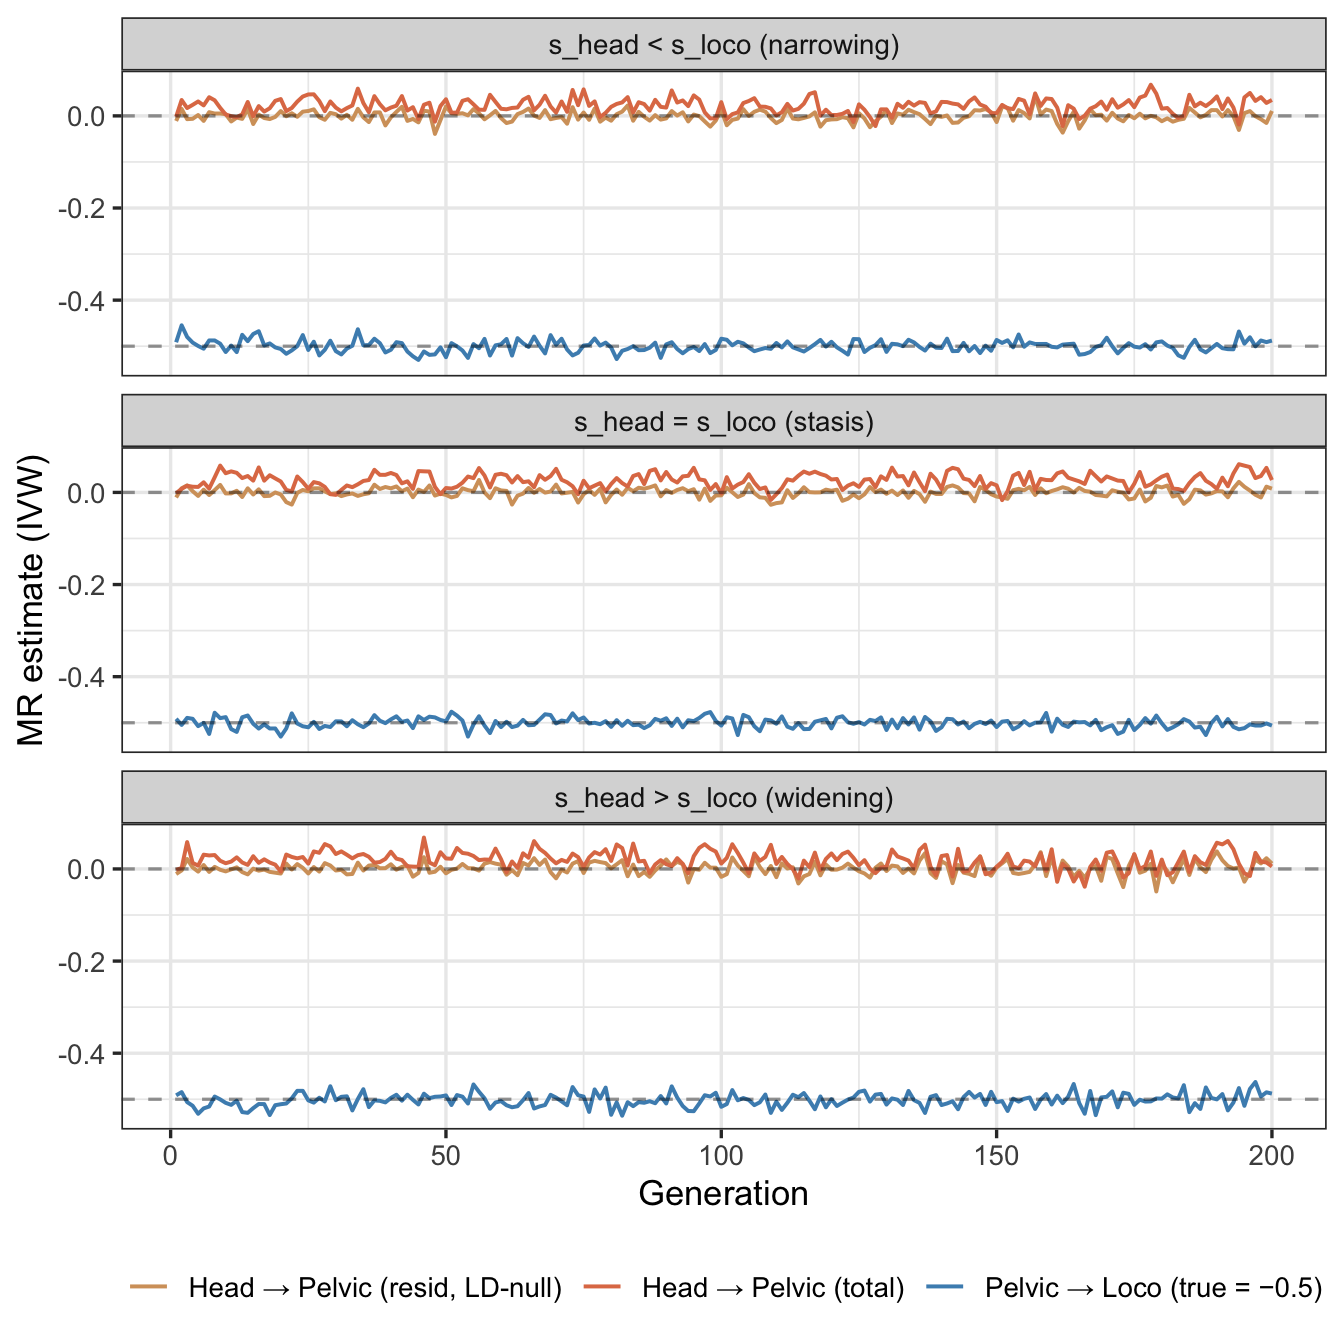
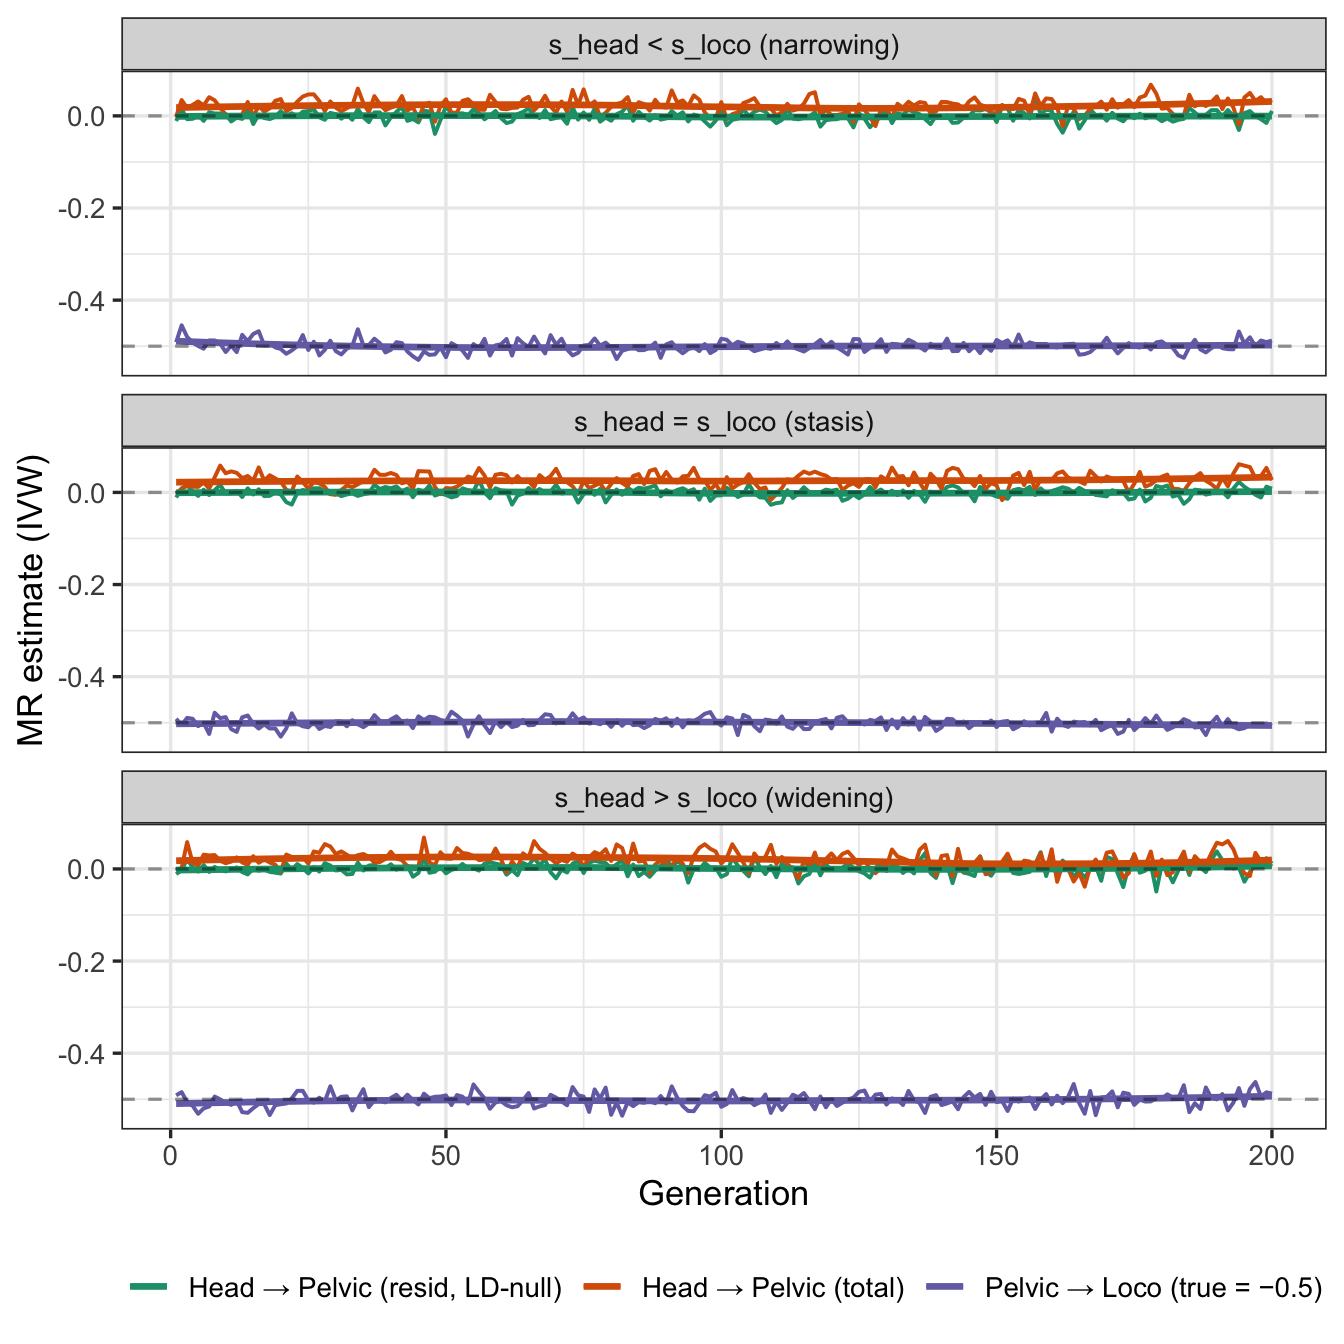
upd

diff --git a/docs/posts/2026-06-18-coevolution-of-head-size-and-pelvic-shape/index.html b/docs/posts/2026-06-18-coevolution-of-head-size-and-pelvic-shape/index.html
@@ -409,16 +409,16 @@ w_i = \exp\!\left(s_\text{head}\, H_i + s_\text{loco}\, L_i - s_\text{birth}\max
 <span id="cb3-9"><a href="#cb3-9" aria-hidden="true" tabindex="-1"></a>  )) <span class="sc">|&gt;</span></span>
 <span id="cb3-10"><a href="#cb3-10" aria-hidden="true" tabindex="-1"></a>  <span class="fu">ggplot</span>(<span class="fu">aes</span>(gen, estimate, <span class="at">colour =</span> analysis)) <span class="sc">+</span></span>
 <span id="cb3-11"><a href="#cb3-11" aria-hidden="true" tabindex="-1"></a>  <span class="fu">geom_line</span>(<span class="at">linewidth =</span> <span class="fl">0.7</span>) <span class="sc">+</span></span>
-<span id="cb3-12"><a href="#cb3-12" aria-hidden="true" tabindex="-1"></a>  <span class="fu">geom_hline</span>(<span class="at">yintercept =</span> <span class="fu">c</span>(<span class="dv">0</span>, <span class="sc">-</span><span class="fl">0.5</span>), <span class="at">linetype =</span> <span class="st">"dashed"</span>, <span class="at">alpha =</span> <span class="fl">0.4</span>) <span class="sc">+</span></span>
-<span id="cb3-13"><a href="#cb3-13" aria-hidden="true" tabindex="-1"></a>  <span class="fu">facet_wrap</span>(<span class="sc">~</span>label, <span class="at">ncol =</span> <span class="dv">1</span>) <span class="sc">+</span></span>
-<span id="cb3-14"><a href="#cb3-14" aria-hidden="true" tabindex="-1"></a>  <span class="fu">scale_colour_manual</span>(<span class="at">values =</span> <span class="fu">c</span>(</span>
-<span id="cb3-15"><a href="#cb3-15" aria-hidden="true" tabindex="-1"></a>    <span class="st">"Head → Pelvic (total)"</span>          <span class="ot">=</span> <span class="st">"#e07b54"</span>,</span>
-<span id="cb3-16"><a href="#cb3-16" aria-hidden="true" tabindex="-1"></a>    <span class="st">"Head → Pelvic (resid, LD-null)"</span> <span class="ot">=</span> <span class="st">"#d4a06a"</span>,</span>
-<span id="cb3-17"><a href="#cb3-17" aria-hidden="true" tabindex="-1"></a>    <span class="st">"Pelvic → Loco (true = −0.5)"</span>    <span class="ot">=</span> <span class="st">"#4c8fbd"</span></span>
-<span id="cb3-18"><a href="#cb3-18" aria-hidden="true" tabindex="-1"></a>  )) <span class="sc">+</span></span>
-<span id="cb3-19"><a href="#cb3-19" aria-hidden="true" tabindex="-1"></a>  <span class="fu">labs</span>(<span class="at">x =</span> <span class="st">"Generation"</span>, <span class="at">y =</span> <span class="st">"MR estimate (IVW)"</span>, <span class="at">colour =</span> <span class="cn">NULL</span>) <span class="sc">+</span></span>
-<span id="cb3-20"><a href="#cb3-20" aria-hidden="true" tabindex="-1"></a>  <span class="fu">theme_bw</span>(<span class="at">base_size =</span> <span class="dv">13</span>) <span class="sc">+</span></span>
-<span id="cb3-21"><a href="#cb3-21" aria-hidden="true" tabindex="-1"></a>  <span class="fu">theme</span>(<span class="at">legend.position =</span> <span class="st">"bottom"</span>)</span></code></pre></div><button title="Copy to Clipboard" class="code-copy-button"><i class="bi"></i></button></div>
+<span id="cb3-12"><a href="#cb3-12" aria-hidden="true" tabindex="-1"></a>  <span class="fu">geom_smooth</span>(<span class="at">se=</span><span class="cn">FALSE</span>) <span class="sc">+</span></span>
+<span id="cb3-13"><a href="#cb3-13" aria-hidden="true" tabindex="-1"></a>  <span class="fu">geom_hline</span>(<span class="at">yintercept =</span> <span class="fu">c</span>(<span class="dv">0</span>, <span class="sc">-</span><span class="fl">0.5</span>), <span class="at">linetype =</span> <span class="st">"dashed"</span>, <span class="at">alpha =</span> <span class="fl">0.4</span>) <span class="sc">+</span></span>
+<span id="cb3-14"><a href="#cb3-14" aria-hidden="true" tabindex="-1"></a>  <span class="fu">facet_wrap</span>(<span class="sc">~</span>label, <span class="at">ncol =</span> <span class="dv">1</span>) <span class="sc">+</span></span>
+<span id="cb3-15"><a href="#cb3-15" aria-hidden="true" tabindex="-1"></a>  <span class="fu">scale_colour_brewer</span>(<span class="at">palette =</span> <span class="st">"Dark2"</span>) <span class="sc">+</span></span>
+<span id="cb3-16"><a href="#cb3-16" aria-hidden="true" tabindex="-1"></a>  <span class="fu">labs</span>(<span class="at">x =</span> <span class="st">"Generation"</span>, <span class="at">y =</span> <span class="st">"MR estimate (IVW)"</span>, <span class="at">colour =</span> <span class="cn">NULL</span>) <span class="sc">+</span></span>
+<span id="cb3-17"><a href="#cb3-17" aria-hidden="true" tabindex="-1"></a>  <span class="fu">theme_bw</span>(<span class="at">base_size =</span> <span class="dv">13</span>) <span class="sc">+</span></span>
+<span id="cb3-18"><a href="#cb3-18" aria-hidden="true" tabindex="-1"></a>  <span class="fu">theme</span>(<span class="at">legend.position =</span> <span class="st">"bottom"</span>)</span></code></pre></div><button title="Copy to Clipboard" class="code-copy-button"><i class="bi"></i></button></div>
+<div class="cell-output cell-output-stderr">
+<pre><code>`geom_smooth()` using method = 'loess' and formula = 'y ~ x'</code></pre>
+</div>
 <div class="cell-output-display">
 <div id="fig-mr-trajectories" class="quarto-float quarto-figure quarto-figure-center anchored">
 <figure class="quarto-float quarto-float-fig figure">
@@ -433,22 +433,22 @@ Figure&nbsp;1: MR estimates across generations by selection regime. Head→pelvi
 </div>
 </div>
 <div class="cell">
-<div class="code-copy-outer-scaffold"><div class="sourceCode cell-code" id="cb4"><pre class="sourceCode r code-with-copy"><code class="sourceCode r"><span id="cb4-1"><a href="#cb4-1" aria-hidden="true" tabindex="-1"></a>results <span class="sc">|&gt;</span></span>
-<span id="cb4-2"><a href="#cb4-2" aria-hidden="true" tabindex="-1"></a>  <span class="fu">select</span>(gen, label, mean_head, mean_pelvic, mean_loco) <span class="sc">|&gt;</span></span>
-<span id="cb4-3"><a href="#cb4-3" aria-hidden="true" tabindex="-1"></a>  <span class="fu">pivot_longer</span>(<span class="fu">c</span>(mean_head, mean_pelvic, mean_loco),</span>
-<span id="cb4-4"><a href="#cb4-4" aria-hidden="true" tabindex="-1"></a>               <span class="at">names_to =</span> <span class="st">"trait"</span>, <span class="at">values_to =</span> <span class="st">"mean"</span>) <span class="sc">|&gt;</span></span>
-<span id="cb4-5"><a href="#cb4-5" aria-hidden="true" tabindex="-1"></a>  <span class="fu">mutate</span>(<span class="at">trait =</span> <span class="fu">recode</span>(trait,</span>
-<span id="cb4-6"><a href="#cb4-6" aria-hidden="true" tabindex="-1"></a>    <span class="at">mean_head   =</span> <span class="st">"Head size"</span>,</span>
-<span id="cb4-7"><a href="#cb4-7" aria-hidden="true" tabindex="-1"></a>    <span class="at">mean_pelvic =</span> <span class="st">"Pelvic shape"</span>,</span>
-<span id="cb4-8"><a href="#cb4-8" aria-hidden="true" tabindex="-1"></a>    <span class="at">mean_loco   =</span> <span class="st">"Locomotion"</span></span>
-<span id="cb4-9"><a href="#cb4-9" aria-hidden="true" tabindex="-1"></a>  )) <span class="sc">|&gt;</span></span>
-<span id="cb4-10"><a href="#cb4-10" aria-hidden="true" tabindex="-1"></a>  <span class="fu">ggplot</span>(<span class="fu">aes</span>(gen, mean, <span class="at">colour =</span> trait)) <span class="sc">+</span></span>
-<span id="cb4-11"><a href="#cb4-11" aria-hidden="true" tabindex="-1"></a>  <span class="fu">geom_line</span>(<span class="at">linewidth =</span> <span class="fl">0.7</span>) <span class="sc">+</span></span>
-<span id="cb4-12"><a href="#cb4-12" aria-hidden="true" tabindex="-1"></a>  <span class="fu">facet_wrap</span>(<span class="sc">~</span>label, <span class="at">ncol =</span> <span class="dv">1</span>) <span class="sc">+</span></span>
-<span id="cb4-13"><a href="#cb4-13" aria-hidden="true" tabindex="-1"></a>  <span class="fu">scale_colour_brewer</span>(<span class="at">palette =</span> <span class="st">"Dark2"</span>) <span class="sc">+</span></span>
-<span id="cb4-14"><a href="#cb4-14" aria-hidden="true" tabindex="-1"></a>  <span class="fu">labs</span>(<span class="at">x =</span> <span class="st">"Generation"</span>, <span class="at">y =</span> <span class="st">"Mean trait value"</span>, <span class="at">colour =</span> <span class="cn">NULL</span>) <span class="sc">+</span></span>
-<span id="cb4-15"><a href="#cb4-15" aria-hidden="true" tabindex="-1"></a>  <span class="fu">theme_bw</span>(<span class="at">base_size =</span> <span class="dv">13</span>) <span class="sc">+</span></span>
-<span id="cb4-16"><a href="#cb4-16" aria-hidden="true" tabindex="-1"></a>  <span class="fu">theme</span>(<span class="at">legend.position =</span> <span class="st">"bottom"</span>)</span></code></pre></div><button title="Copy to Clipboard" class="code-copy-button"><i class="bi"></i></button></div>
+<div class="code-copy-outer-scaffold"><div class="sourceCode cell-code" id="cb5"><pre class="sourceCode r code-with-copy"><code class="sourceCode r"><span id="cb5-1"><a href="#cb5-1" aria-hidden="true" tabindex="-1"></a>results <span class="sc">|&gt;</span></span>
+<span id="cb5-2"><a href="#cb5-2" aria-hidden="true" tabindex="-1"></a>  <span class="fu">select</span>(gen, label, mean_head, mean_pelvic, mean_loco) <span class="sc">|&gt;</span></span>
+<span id="cb5-3"><a href="#cb5-3" aria-hidden="true" tabindex="-1"></a>  <span class="fu">pivot_longer</span>(<span class="fu">c</span>(mean_head, mean_pelvic, mean_loco),</span>
+<span id="cb5-4"><a href="#cb5-4" aria-hidden="true" tabindex="-1"></a>               <span class="at">names_to =</span> <span class="st">"trait"</span>, <span class="at">values_to =</span> <span class="st">"mean"</span>) <span class="sc">|&gt;</span></span>
+<span id="cb5-5"><a href="#cb5-5" aria-hidden="true" tabindex="-1"></a>  <span class="fu">mutate</span>(<span class="at">trait =</span> <span class="fu">recode</span>(trait,</span>
+<span id="cb5-6"><a href="#cb5-6" aria-hidden="true" tabindex="-1"></a>    <span class="at">mean_head   =</span> <span class="st">"Head size"</span>,</span>
+<span id="cb5-7"><a href="#cb5-7" aria-hidden="true" tabindex="-1"></a>    <span class="at">mean_pelvic =</span> <span class="st">"Pelvic shape"</span>,</span>
+<span id="cb5-8"><a href="#cb5-8" aria-hidden="true" tabindex="-1"></a>    <span class="at">mean_loco   =</span> <span class="st">"Locomotion"</span></span>
+<span id="cb5-9"><a href="#cb5-9" aria-hidden="true" tabindex="-1"></a>  )) <span class="sc">|&gt;</span></span>
+<span id="cb5-10"><a href="#cb5-10" aria-hidden="true" tabindex="-1"></a>  <span class="fu">ggplot</span>(<span class="fu">aes</span>(gen, mean, <span class="at">colour =</span> trait)) <span class="sc">+</span></span>
+<span id="cb5-11"><a href="#cb5-11" aria-hidden="true" tabindex="-1"></a>  <span class="fu">geom_line</span>(<span class="at">linewidth =</span> <span class="fl">0.7</span>) <span class="sc">+</span></span>
+<span id="cb5-12"><a href="#cb5-12" aria-hidden="true" tabindex="-1"></a>  <span class="fu">facet_wrap</span>(<span class="sc">~</span>label, <span class="at">ncol =</span> <span class="dv">1</span>) <span class="sc">+</span></span>
+<span id="cb5-13"><a href="#cb5-13" aria-hidden="true" tabindex="-1"></a>  <span class="fu">scale_colour_brewer</span>(<span class="at">palette =</span> <span class="st">"Dark2"</span>) <span class="sc">+</span></span>
+<span id="cb5-14"><a href="#cb5-14" aria-hidden="true" tabindex="-1"></a>  <span class="fu">labs</span>(<span class="at">x =</span> <span class="st">"Generation"</span>, <span class="at">y =</span> <span class="st">"Mean trait value"</span>, <span class="at">colour =</span> <span class="cn">NULL</span>) <span class="sc">+</span></span>
+<span id="cb5-15"><a href="#cb5-15" aria-hidden="true" tabindex="-1"></a>  <span class="fu">theme_bw</span>(<span class="at">base_size =</span> <span class="dv">13</span>) <span class="sc">+</span></span>
+<span id="cb5-16"><a href="#cb5-16" aria-hidden="true" tabindex="-1"></a>  <span class="fu">theme</span>(<span class="at">legend.position =</span> <span class="st">"bottom"</span>)</span></code></pre></div><button title="Copy to Clipboard" class="code-copy-button"><i class="bi"></i></button></div>
 <div class="cell-output-display">
 <div id="fig-trait-means" class="quarto-float quarto-figure quarto-figure-center anchored">
 <figure class="quarto-float quarto-float-fig figure">
@@ -475,7 +475,7 @@ Figure&nbsp;2: Mean trait trajectories by selection regime.
 <li>As all the variants are independent, the LD generated is weak and reset every generation, so the MR signal is weak. If there were pleiotropic variants that affected both head size and pelvic shape, or variants for both traits in close proximity, the MR signal would be stronger.</li>
 </ul>
 <div class="cell">
-<div class="code-copy-outer-scaffold"><div class="sourceCode cell-code" id="cb5"><pre class="sourceCode r code-with-copy"><code class="sourceCode r"><span id="cb5-1"><a href="#cb5-1" aria-hidden="true" tabindex="-1"></a><span class="fu">sessionInfo</span>()</span></code></pre></div><button title="Copy to Clipboard" class="code-copy-button"><i class="bi"></i></button></div>
+<div class="code-copy-outer-scaffold"><div class="sourceCode cell-code" id="cb6"><pre class="sourceCode r code-with-copy"><code class="sourceCode r"><span id="cb6-1"><a href="#cb6-1" aria-hidden="true" tabindex="-1"></a><span class="fu">sessionInfo</span>()</span></code></pre></div><button title="Copy to Clipboard" class="code-copy-button"><i class="bi"></i></button></div>
 <div class="cell-output cell-output-stdout">
 <pre><code>R version 4.6.0 (2026-04-24)
 Platform: aarch64-apple-darwin23
@@ -500,16 +500,17 @@ other attached packages:
  [9] ggplot2_4.0.3   tidyverse_2.0.0
 
 loaded via a namespace (and not attached):
- [1] gtable_0.3.6       jsonlite_2.0.0     compiler_4.6.0     tidyselect_1.2.1  
- [5] scales_1.4.0       yaml_2.3.12        fastmap_1.2.0      R6_2.6.1          
- [9] labeling_0.4.3     generics_0.1.4     knitr_1.51         htmlwidgets_1.6.4 
-[13] pillar_1.11.1      RColorBrewer_1.1-3 tzdb_0.5.0         rlang_1.2.0       
-[17] stringi_1.8.7      xfun_0.57          S7_0.2.2           otel_0.2.0        
-[21] timechange_0.4.0   cli_3.6.6          withr_3.0.2        magrittr_2.0.5    
-[25] digest_0.6.39      grid_4.6.0         hms_1.1.4          lifecycle_1.0.5   
-[29] vctrs_0.7.3        evaluate_1.0.5     glue_1.8.1         farver_2.1.2      
-[33] codetools_0.2-20   rmarkdown_2.31     tools_4.6.0        pkgconfig_2.0.3   
-[37] htmltools_0.5.9   </code></pre>
+ [1] Matrix_1.7-5       gtable_0.3.6       jsonlite_2.0.0     compiler_4.6.0    
+ [5] tidyselect_1.2.1   splines_4.6.0      scales_1.4.0       yaml_2.3.12       
+ [9] fastmap_1.2.0      lattice_0.22-9     R6_2.6.1           labeling_0.4.3    
+[13] generics_0.1.4     knitr_1.51         htmlwidgets_1.6.4  pillar_1.11.1     
+[17] RColorBrewer_1.1-3 tzdb_0.5.0         rlang_1.2.0        stringi_1.8.7     
+[21] xfun_0.57          S7_0.2.2           otel_0.2.0         timechange_0.4.0  
+[25] cli_3.6.6          mgcv_1.9-4         withr_3.0.2        magrittr_2.0.5    
+[29] digest_0.6.39      grid_4.6.0         hms_1.1.4          nlme_3.1-169      
+[33] lifecycle_1.0.5    vctrs_0.7.3        evaluate_1.0.5     glue_1.8.1        
+[37] farver_2.1.2       rmarkdown_2.31     tools_4.6.0        pkgconfig_2.0.3   
+[41] htmltools_0.5.9   </code></pre>
 </div>
 </div>
 

diff --git a/docs/index.html b/docs/index.html
@@ -216,7 +216,7 @@ Categories
 </thead>
 <tbody class="list">
 
-<tr data-index="0" data-categories="" data-listing-date-sort="1781737200000" data-listing-file-modified-sort="1781825404983" data-listing-date-modified-sort="NaN" data-listing-reading-time-sort="9" data-listing-word-count-sort="1766" data-listing-title-sort="Co-evolution of head size and pelvic shape" data-listing-filename-sort="index.qmd" onclick="href = this.querySelector('a').getAttribute('href');
+<tr data-index="0" data-categories="" data-listing-date-sort="1781737200000" data-listing-file-modified-sort="1781829328147" data-listing-date-modified-sort="NaN" data-listing-reading-time-sort="9" data-listing-word-count-sort="1725" data-listing-title-sort="Co-evolution of head size and pelvic shape" data-listing-filename-sort="index.qmd" onclick="href = this.querySelector('a').getAttribute('href');
  if (href) { window.location=href ; return false; }">
 <td>
 <span class="listing-date">Jun 18, 2026</span>